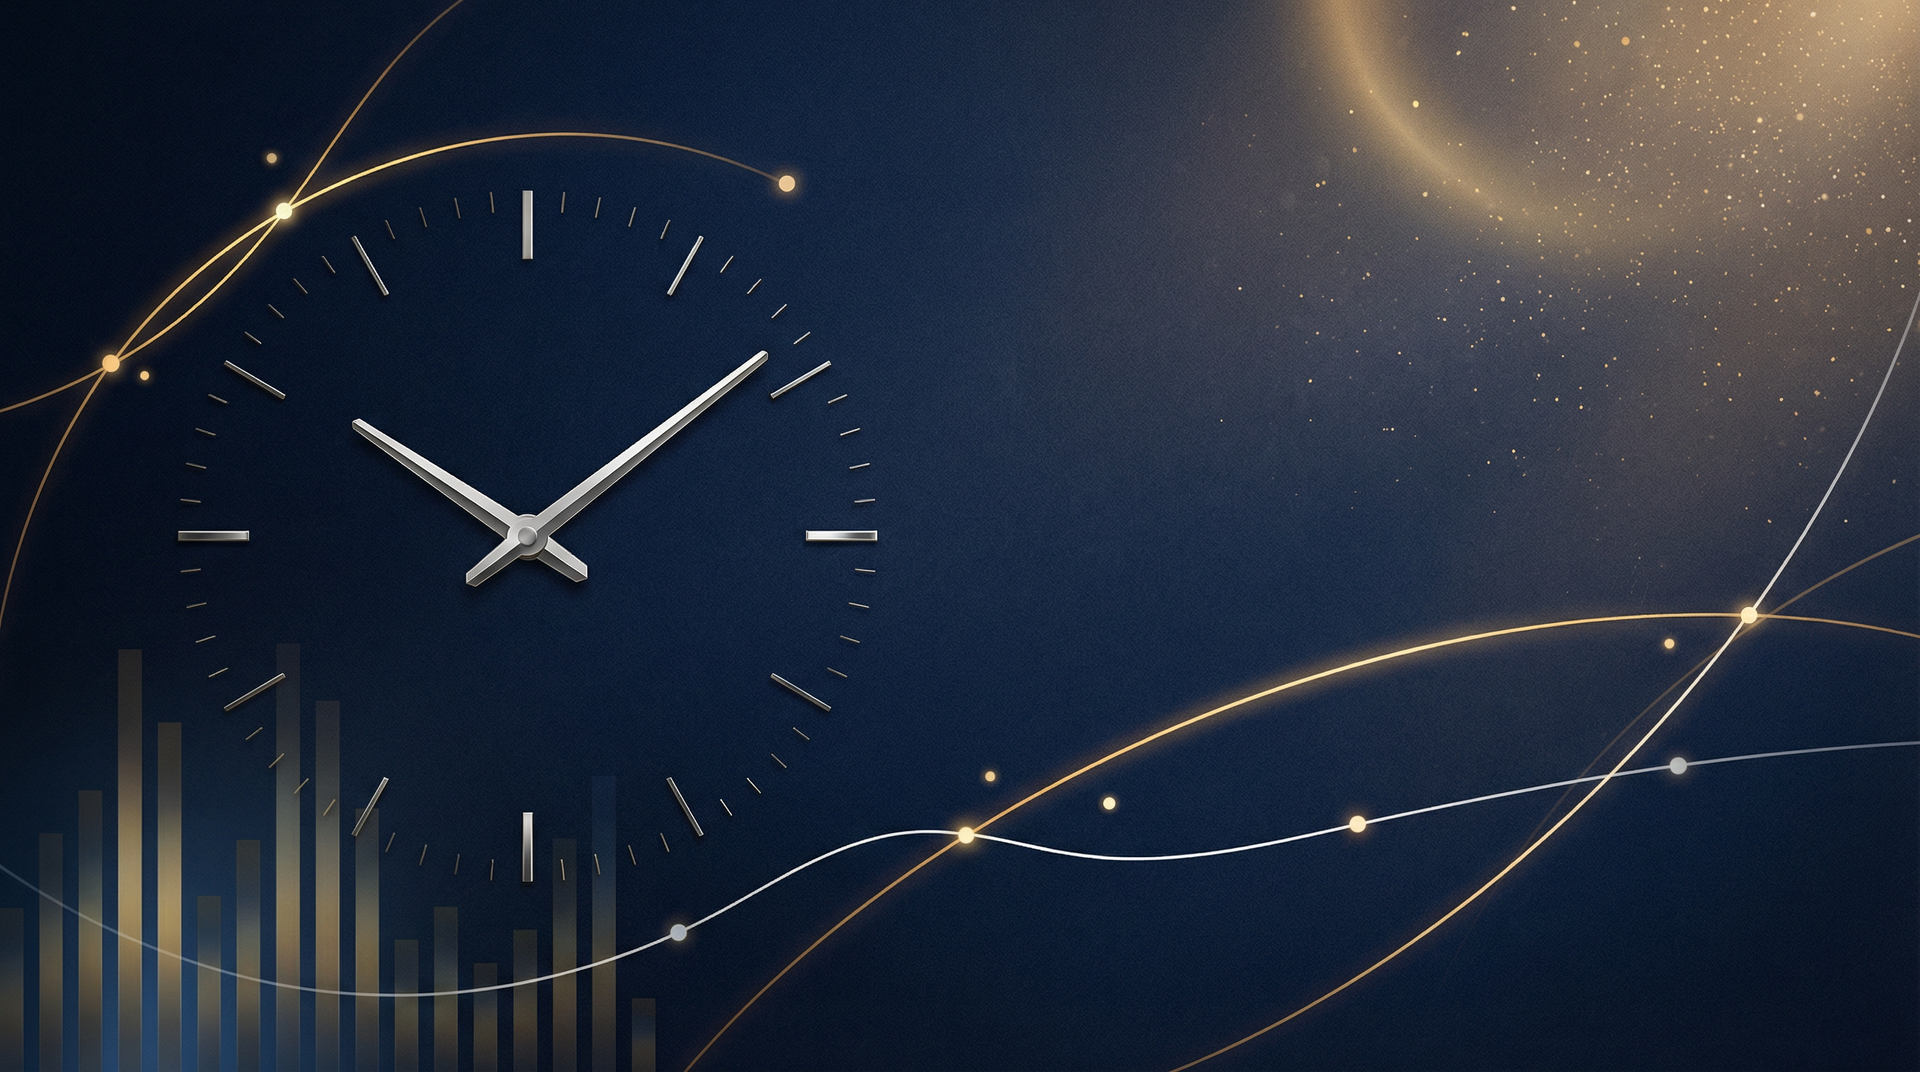
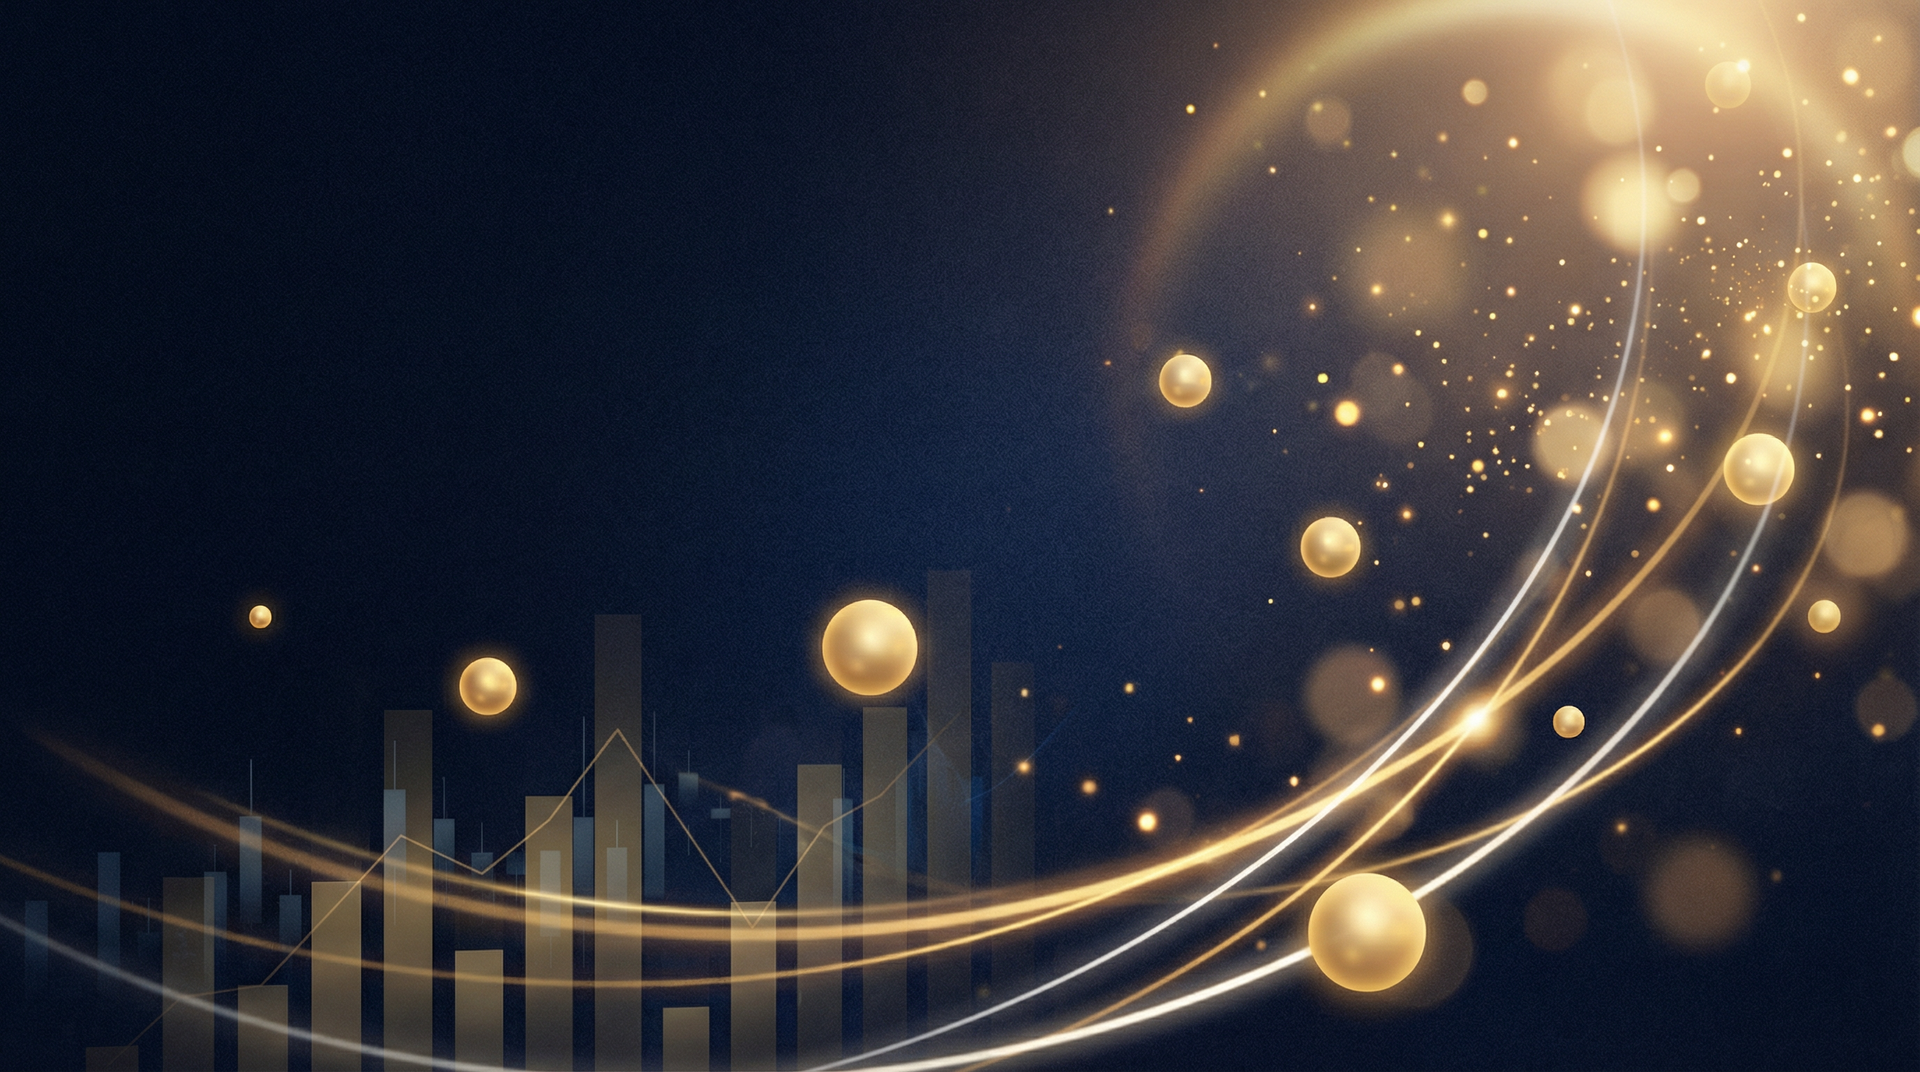
Feature: page login — fond animé (boules dorées flottantes + particules lumineuses via Canvas, sans toucher aux aiguilles de l'image)

diff --git a/src/index.tsx b/src/index.tsx
@@ -1457,16 +1457,8 @@ function getLoginHTML(): string {
 *{margin:0;padding:0;box-sizing:border-box;}
 html,body{width:100%;height:100%;overflow:hidden;}
 
-/* ── Fond canvas plein écran ── */
+/* ── Fond canvas animé plein écran ── */
 #bg-canvas{position:fixed;inset:0;width:100%;height:100%;z-index:0;pointer-events:none;}
-
-/* ── Aiguilles horloge animées ── */
-#clock-overlay{
-  position:fixed;
-  z-index:0;
-  pointer-events:none;
-  /* positionnement ajusté via JS selon la taille de l'écran */
-}
 
 /* ── Overlay verre dépoli global ── */
 .scene{position:fixed;inset:0;z-index:1;display:flex;align-items:center;justify-content:center;padding:16px;}
@@ -1588,7 +1580,7 @@ html,body{width:100%;height:100%;overflow:hidden;}
 </head>
 <body>
 
-<!-- Fond animé : image + horloge en temps réel -->
+<!-- Fond animé canvas -->
 <canvas id="bg-canvas"></canvas>
 <script>
 (function(){
@@ -1597,104 +1589,99 @@ html,body{width:100%;height:100%;overflow:hidden;}
   const img = new Image();
   img.src = '/static/login-bg.png';
 
-  // Coordonnées du centre de l'horloge dans l'image originale (2752x1536)
-  // L'horloge est dans le quart supérieur gauche
-  const CLOCK_REF_X = 0.185;  // 18.5% depuis la gauche
-  const CLOCK_REF_Y = 0.36;   // 36% depuis le haut
-  const CLOCK_REF_R = 0.155;  // rayon = 15.5% de la hauteur
-
   function resize(){
-    canvas.width  = window.innerWidth;
+    canvas.width = window.innerWidth;
     canvas.height = window.innerHeight;
   }
   window.addEventListener('resize', resize);
   resize();
 
+  // Boules dorées flottantes
+  const orbs = Array.from({length: 18}, (_, i) => ({
+    x: Math.random(),
+    y: Math.random(),
+    r: 2 + Math.random() * 5,
+    vx: (Math.random() - 0.5) * 0.00015,
+    vy: (Math.random() - 0.5) * 0.00015,
+    alpha: 0.4 + Math.random() * 0.6,
+    pulse: Math.random() * Math.PI * 2,
+    pulseSpeed: 0.008 + Math.random() * 0.012
+  }));
+
+  // Particules lumineuses
+  const particles = Array.from({length: 35}, () => ({
+    x: Math.random(),
+    y: Math.random(),
+    r: 0.8 + Math.random() * 2,
+    vx: (Math.random() - 0.5) * 0.00008,
+    vy: -0.00005 - Math.random() * 0.0001,
+    alpha: 0.2 + Math.random() * 0.5,
+    pulse: Math.random() * Math.PI * 2,
+    pulseSpeed: 0.02 + Math.random() * 0.03
+  }));
+
   function drawFrame(){
     const W = canvas.width, H = canvas.height;
+    ctx.clearRect(0, 0, W, H);
 
-    // 1. Dessiner l'image de fond (couvre tout l'écran)
-    if(img.complete){
-      // object-fit: cover + object-position: left center
+    // 1. Image de fond (object-fit: cover)
+    if(img.complete && img.naturalWidth > 0){
       const iw = img.naturalWidth, ih = img.naturalHeight;
       const scale = Math.max(W/iw, H/ih);
       const dw = iw*scale, dh = ih*scale;
-      const dx = 0, dy = (H-dh)/2;
+      const dx = (W-dw)/2, dy = (H-dh)/2;
       ctx.drawImage(img, dx, dy, dw, dh);
-
-      // 2. Calculer le centre et rayon de l'horloge à l'écran
-      const cx = dx + CLOCK_REF_X * dw;
-      const cy = dy + CLOCK_REF_Y * dh;
-      const R  = CLOCK_REF_R * dh;
-
-      // 3. Heure actuelle
-      const now  = new Date();
-      const sec  = now.getSeconds() + now.getMilliseconds()/1000;
-      const min  = now.getMinutes() + sec/60;
-      const hour = (now.getHours() % 12) + min/60;
-
-      // 4. Dessiner aiguille des heures
-      ctx.save();
-      ctx.translate(cx, cy);
-      ctx.rotate((hour/12)*Math.PI*2 - Math.PI/2);
-      ctx.beginPath();
-      ctx.moveTo(-R*0.12, 0);
-      ctx.lineTo(R*0.52, 0);
-      ctx.strokeStyle = 'rgba(220,230,255,0.92)';
-      ctx.lineWidth = R*0.045;
-      ctx.lineCap = 'round';
-      ctx.shadowColor = 'rgba(180,210,255,0.7)';
-      ctx.shadowBlur = 8;
-      ctx.stroke();
-      ctx.restore();
-
-      // 5. Dessiner aiguille des minutes
-      ctx.save();
-      ctx.translate(cx, cy);
-      ctx.rotate((min/60)*Math.PI*2 - Math.PI/2);
-      ctx.beginPath();
-      ctx.moveTo(-R*0.14, 0);
-      ctx.lineTo(R*0.72, 0);
-      ctx.strokeStyle = 'rgba(220,230,255,0.88)';
-      ctx.lineWidth = R*0.030;
-      ctx.lineCap = 'round';
-      ctx.shadowColor = 'rgba(180,210,255,0.6)';
-      ctx.shadowBlur = 6;
-      ctx.stroke();
-      ctx.restore();
-
-      // 6. Dessiner aiguille des secondes (dorée)
-      ctx.save();
-      ctx.translate(cx, cy);
-      ctx.rotate((sec/60)*Math.PI*2 - Math.PI/2);
-      ctx.beginPath();
-      ctx.moveTo(-R*0.18, 0);
-      ctx.lineTo(R*0.82, 0);
-      ctx.strokeStyle = 'rgba(255,200,80,0.90)';
-      ctx.lineWidth = R*0.016;
-      ctx.lineCap = 'round';
-      ctx.shadowColor = 'rgba(255,180,0,0.8)';
-      ctx.shadowBlur = 10;
-      ctx.stroke();
-      ctx.restore();
-
-      // 7. Centre de l\'horloge
-      ctx.save();
-      ctx.translate(cx, cy);
-      ctx.beginPath();
-      ctx.arc(0, 0, R*0.045, 0, Math.PI*2);
-      ctx.fillStyle = 'rgba(255,210,100,0.95)';
-      ctx.shadowColor = 'rgba(255,180,0,0.9)';
-      ctx.shadowBlur = 12;
-      ctx.fill();
-      ctx.restore();
+    } else {
+      ctx.fillStyle = '#0a1628';
+      ctx.fillRect(0,0,W,H);
     }
+
+    // 2. Boules dorées flottantes
+    orbs.forEach(o => {
+      o.x += o.vx; o.y += o.vy;
+      o.pulse += o.pulseSpeed;
+      if(o.x < 0) o.x = 1; if(o.x > 1) o.x = 0;
+      if(o.y < 0) o.y = 1; if(o.y > 1) o.y = 0;
+      const pulse = 0.7 + 0.3 * Math.sin(o.pulse);
+      const grd = ctx.createRadialGradient(
+        o.x*W, o.y*H, 0,
+        o.x*W, o.y*H, o.r * 3.5 * pulse
+      );
+      grd.addColorStop(0,   `rgba(255,200,60,${o.alpha * pulse})`);
+      grd.addColorStop(0.4, `rgba(255,160,20,${o.alpha * 0.5 * pulse})`);
+      grd.addColorStop(1,   'rgba(255,140,0,0)');
+      ctx.beginPath();
+      ctx.arc(o.x*W, o.y*H, o.r * 3.5 * pulse, 0, Math.PI*2);
+      ctx.fillStyle = grd;
+      ctx.fill();
+      // centre brillant
+      ctx.beginPath();
+      ctx.arc(o.x*W, o.y*H, o.r * pulse, 0, Math.PI*2);
+      ctx.fillStyle = `rgba(255,230,120,${o.alpha * pulse})`;
+      ctx.fill();
+    });
+
+    // 3. Particules lumineuses montantes
+    particles.forEach(p => {
+      p.x += p.vx; p.y += p.vy;
+      p.pulse += p.pulseSpeed;
+      if(p.y < -0.02) p.y = 1.02;
+      if(p.x < 0) p.x = 1; if(p.x > 1) p.x = 0;
+      const a = p.alpha * (0.6 + 0.4 * Math.sin(p.pulse));
+      ctx.beginPath();
+      ctx.arc(p.x*W, p.y*H, p.r, 0, Math.PI*2);
+      ctx.fillStyle = `rgba(255,215,80,${a})`;
+      ctx.shadowColor = 'rgba(255,200,50,0.8)';
+      ctx.shadowBlur = 6;
+      ctx.fill();
+      ctx.shadowBlur = 0;
+    });
 
     requestAnimationFrame(drawFrame);
   }
 
   img.onload = drawFrame;
-  if(img.complete) drawFrame();
+  if(img.complete && img.naturalWidth > 0) drawFrame();
 })();
 </script>
 
